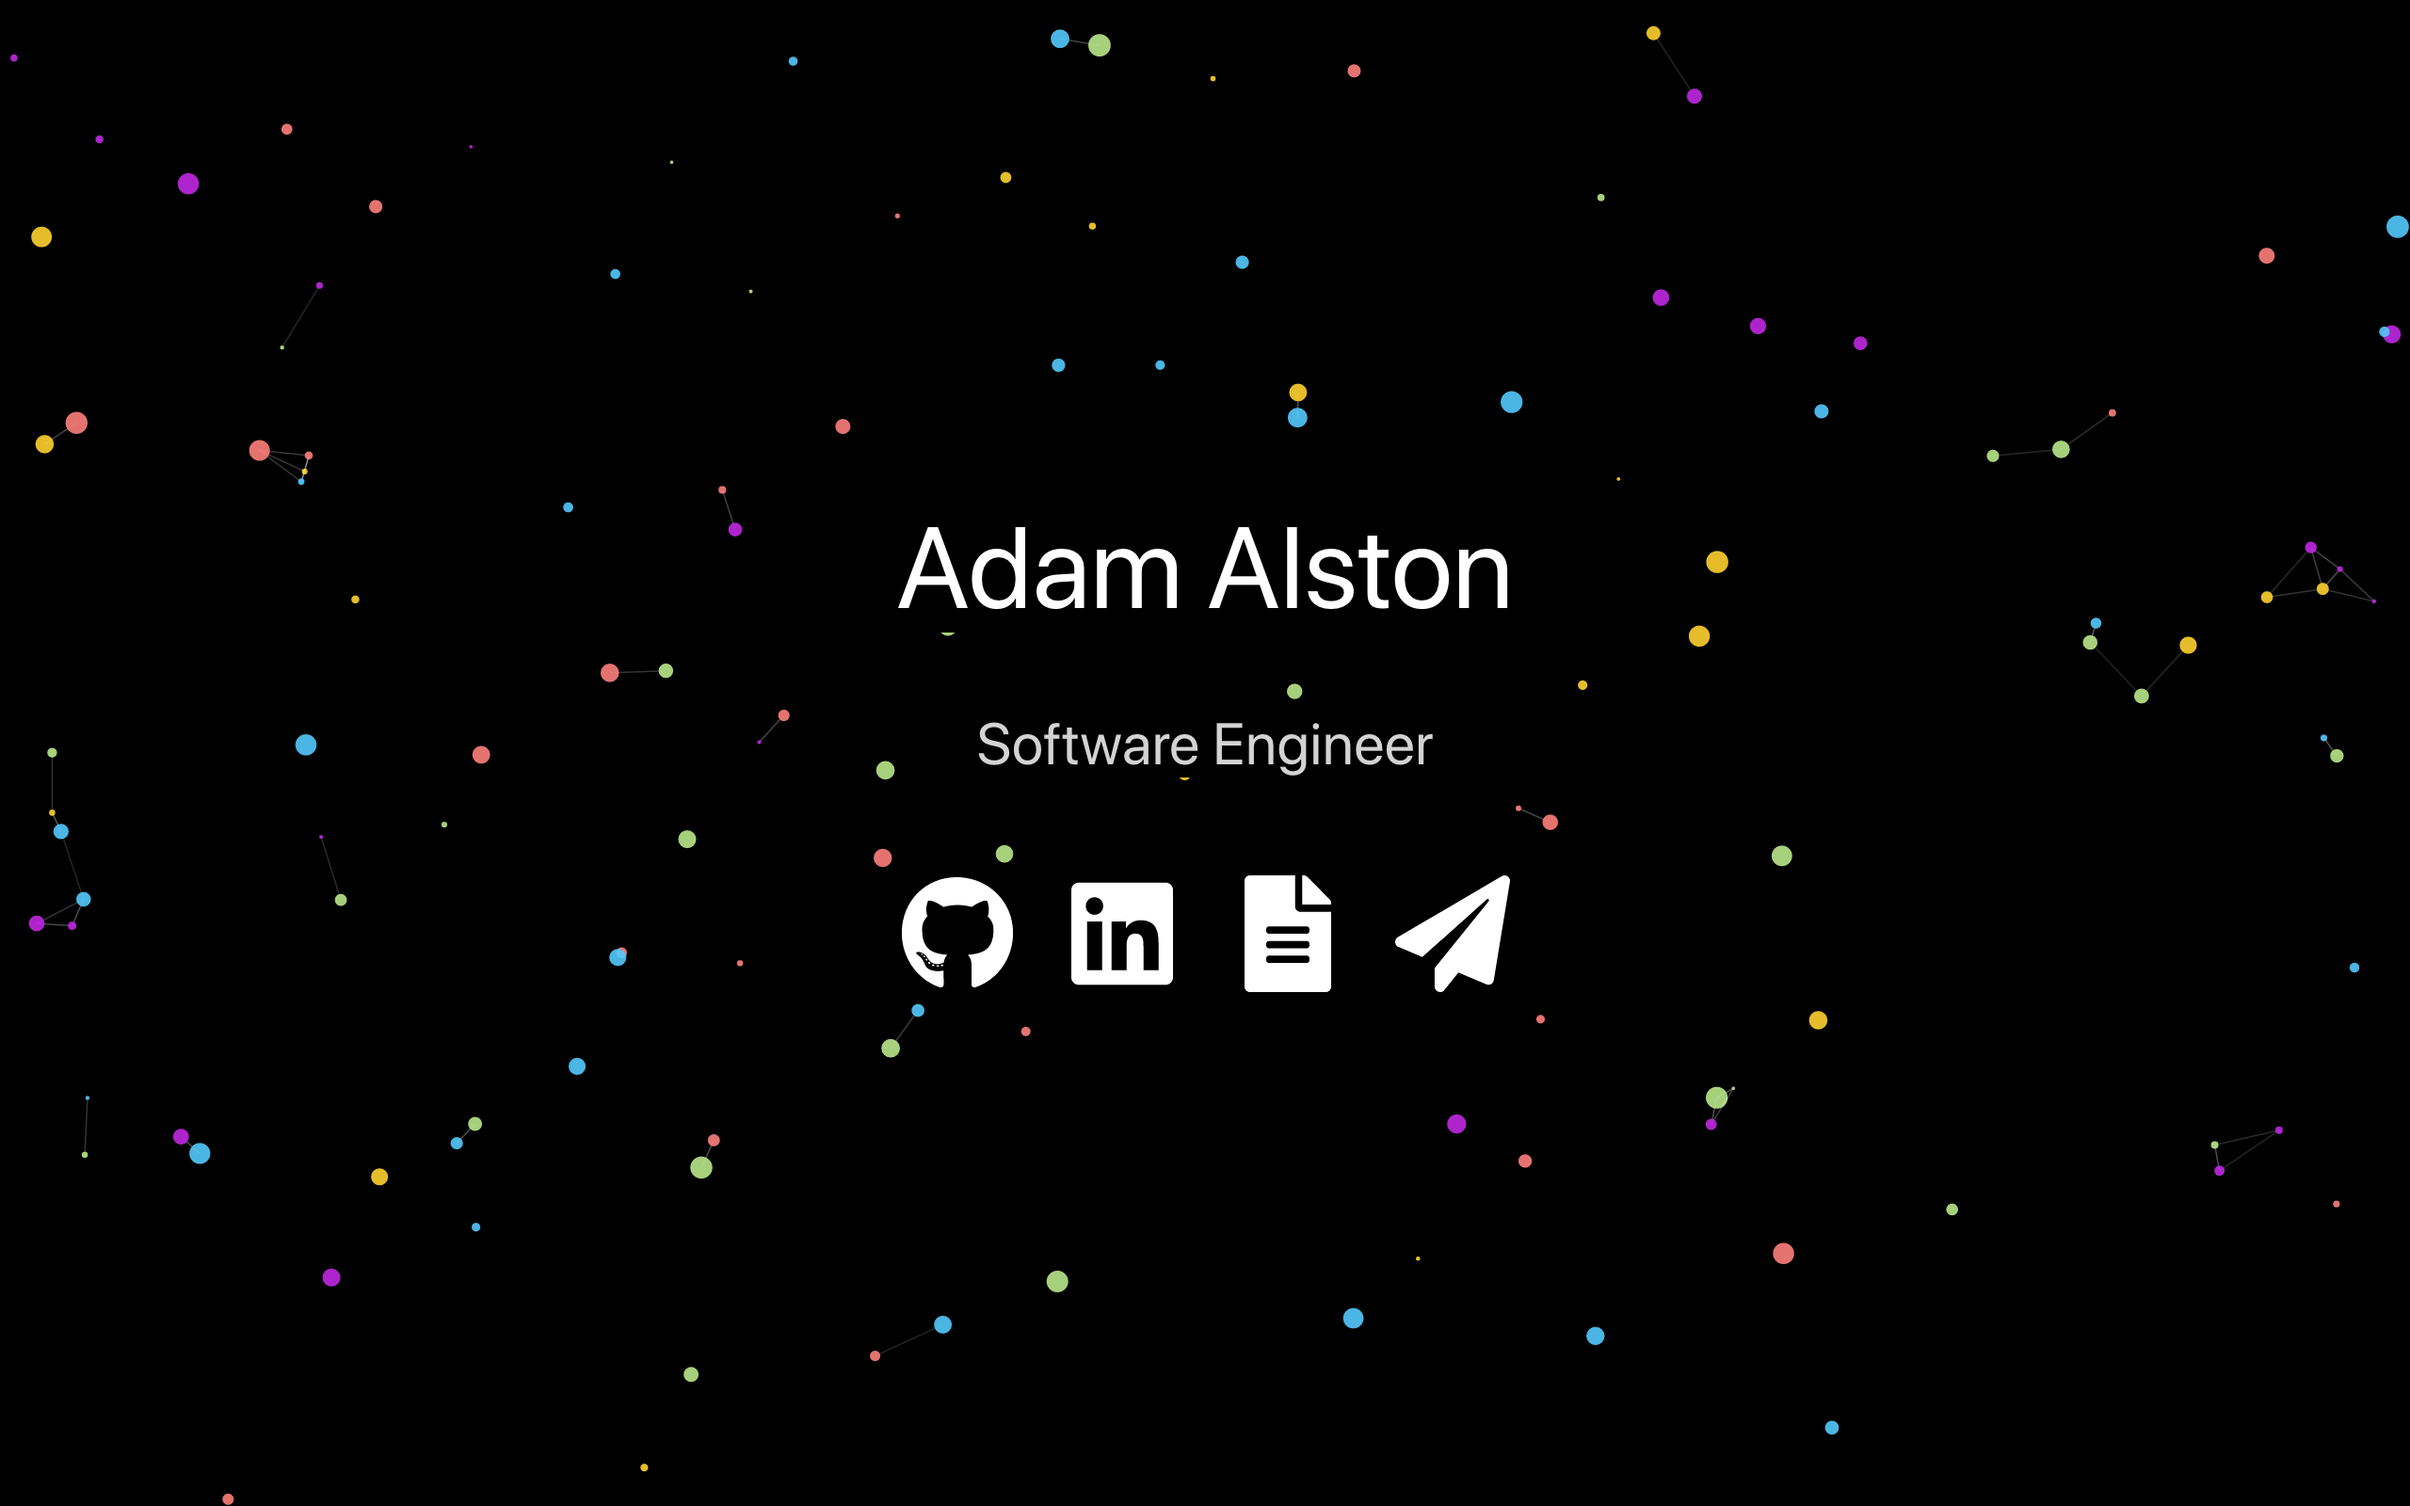
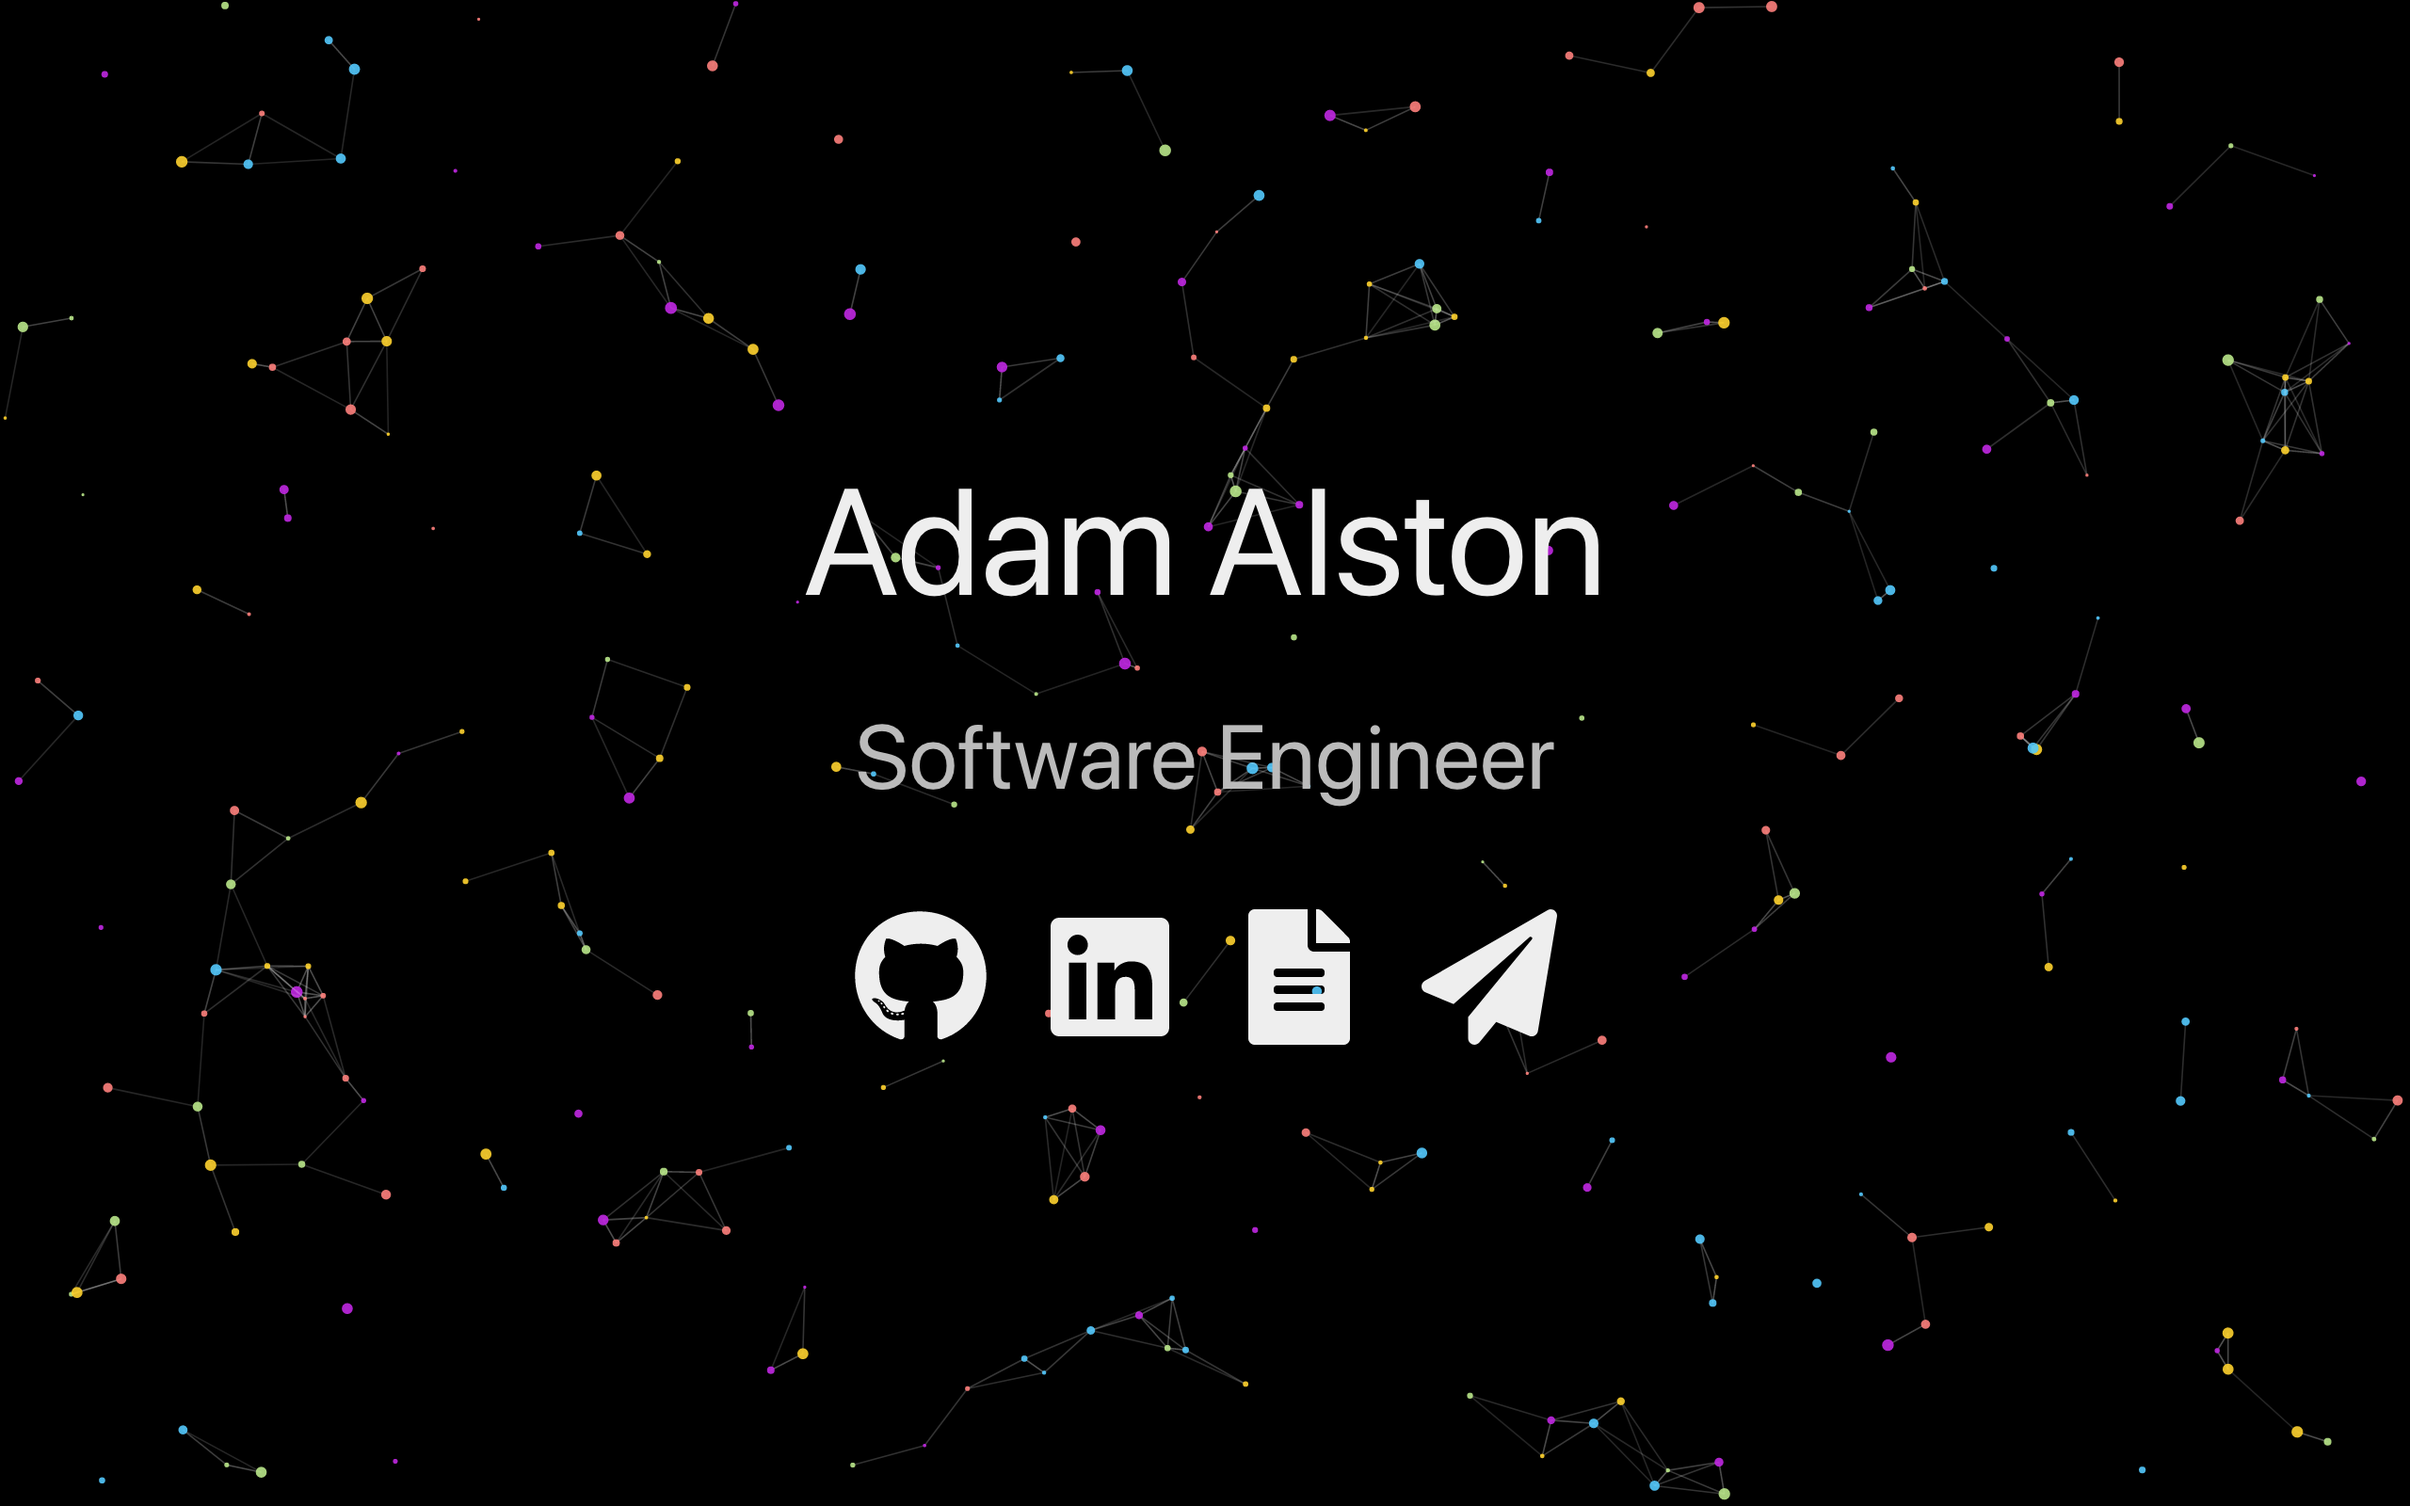
update colors, preview

diff --git a/README.md b/README.md
@@ -1,20 +1,20 @@
-<h1 align="left">adamalston<span></span>.com 
+<h1 align="left">adamalston<span></span>.com
     &middot;
     <a href="https://app.circleci.com/pipelines/github/adamalston/v2">
         <img src="https://img.shields.io/circleci/build/gh/adamalston/v2?label=build" alt-text="Build Status" role="status" aria-label="badge that displays the build status of my website from CircleCI"/>
     </a>
     <a href="https://app.netlify.com/sites/adamalston/deploys">
-            <img src="https://img.shields.io/netlify/332bbd91-59b7-4091-8781-6f41330399b4" alt-text="Netlify Status" role="status" aria-label="badge that displays the operational status of my website from Netlify"/>
+        <img src="https://img.shields.io/netlify/332bbd91-59b7-4091-8781-6f41330399b4" alt-text="Netlify Status" role="status" aria-label="badge that displays the operational status of my website from Netlify"/>
     </a>
 </h1>
 
-<p align="left"> The second iteration of 
-    <a href="https://www.adamalston.com" role="link" aria-label="visit my website">adamalston.com</a> built with 
-    <a href="https://reactjs.org/" role="link" aria-label="visit the React website to learn more about the javascript library">React</a> and hosted with 
+<p align="left"> The second iteration of
+    <a href="https://www.adamalston.com" role="link" aria-label="visit my website">adamalston.com</a> built with
+    <a href="https://reactjs.org/" role="link" aria-label="visit the React website to learn more about the javascript library">React</a> and hosted with
     <a href="https://www.netlify.com/" role="link" aria-label="visit the Netlify website to learn more about the host service">Netlify</a>.
 </p>
 
-<p align="left">Previous iteration: 
+<p align="left">Previous iteration:
     <a href="https://github.com/adamalston/v1" role="link" aria-label="visit the repository for the previous iteration of my website to learn more">v1</a>
 </p>
 
@@ -41,11 +41,11 @@ Colors meet a color contrast ratio of 4.5:1 against the background of the websit
 
 | Color       | Hex                                                                |
 | ----------- | ------------------------------------------------------------------ |
-| Light Gray  | ![#eeeeee](https://via.placeholder.com/12/eeeeee?text=+) `#eeeeee` |
-| Silver      | ![#bbbbbb](https://via.placeholder.com/12/bbbbbb?text=+) `#bbbbbb` |
-| Light Red   | ![#ff7e79](https://via.placeholder.com/12/ff7e79?text=+) `#ff7e79` |
-| Gold        | ![#ffd300](https://via.placeholder.com/12/ffd300?text=+) `#ffd300` |
-| Light Green | ![#b8e986](https://via.placeholder.com/12/b8e986?text=+) `#b8e986` |
-| Turquoise   | ![#4dc9ff](https://via.placeholder.com/12/4dc9ff?text=+) `#4dc9ff` |
-| Purple      | ![#c311e7](https://via.placeholder.com/12/c311e7?text=+) `#c311e7` |
 | Black       | ![#000000](https://via.placeholder.com/12/000000?text=+) `#000000` |
+| Purple      | ![#c311e7](https://via.placeholder.com/12/c311e7?text=+) `#c311e7` |
+| Turquoise   | ![#4dc9ff](https://via.placeholder.com/12/4dc9ff?text=+) `#4dc9ff` |
+| Light Green | ![#90ee90](https://via.placeholder.com/12/90ee90?text=+) `#90ee90` |
+| Gold        | ![#ffd300](https://via.placeholder.com/12/ffd300?text=+) `#ffd300` |
+| Light Red   | ![#ff6961](https://via.placeholder.com/12/ff6961?text=+) `#ff6961` |
+| Silver      | ![#bbbbbb](https://via.placeholder.com/12/bbbbbb?text=+) `#bbbbbb` |
+| Light Gray  | ![#eeeeee](https://via.placeholder.com/12/eeeeee?text=+) `#eeeeee` |
